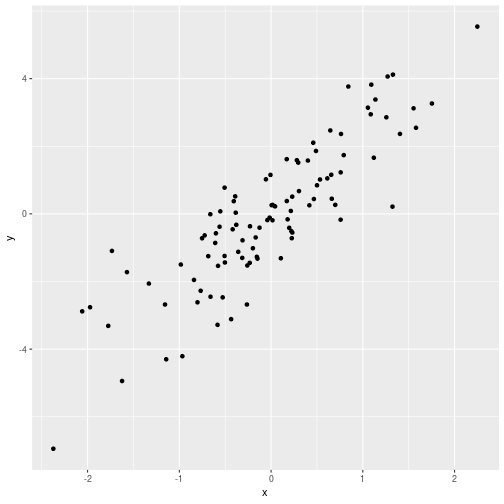
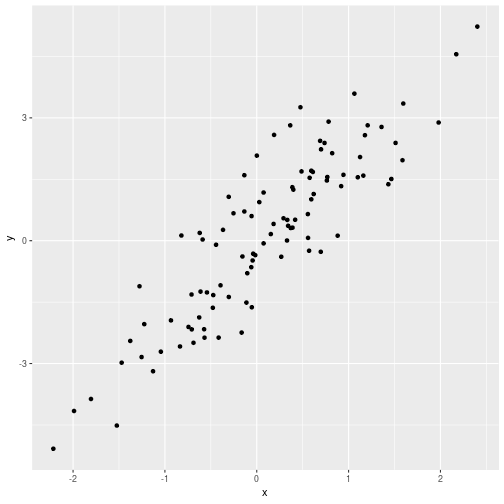
README Changes, C3 Applied Section 11

diff --git a/Chapter_3/applied.md b/Chapter_3/applied.md
@@ -247,14 +247,14 @@ lm(mpg ~ weight*year + cylinders*displacement, auto) %>% tidy()
 All of the values appear to be reasonably statistically significant. In fact, if we have a look at the fitted vs residuals, it looks much better than before:
 
 ```r
-lm(mpg ~ weight*year + cylinders*displacement, auto) %>% augment() %>% ggplot(aes(.fitted, .resid)) + geom_point() + geom_smooth()A
+lm(mpg ~ weight*year + cylinders*displacement, auto) %>% augment() %>% ggplot(aes(.fitted, .resid)) + geom_point() + geom_smooth()
 ```
 
 ```
-## Error: <text>:1:131: unexpected symbol
-## 1: lm(mpg ~ weight*year + cylinders*displacement, auto) %>% augment() %>% ggplot(aes(.fitted, .resid)) + geom_point() + geom_smooth()A
-##                                                                                                                                       ^
+## `geom_smooth()` using method = 'loess' and formula 'y ~ x'
 ```
+
+![plot of chunk applied_auto_interaction_fitted](figure/applied_auto_interaction_fitted-1.png)
 
 ### f)
 *Try different transformations of the variables and comment ont the findings.*
@@ -424,6 +424,7 @@ There doesn't appear to be any non-linearity in the daata, and the high leverage
 
 
 ```r
+set.seed(1)
 linear_response <- tibble(x = rnorm(100), y = 2 * x + rnorm(100))
 linear_response %>% ggplot(aes(x,y)) + geom_point()
 ```
@@ -435,20 +436,15 @@ linear_response %>% ggplot(aes(x,y)) + geom_point()
 
 
 ```r
-set.seed(1)
-lr_reg <- lm(y ~ x + 0)
-```
-
-```
-## Error in eval(predvars, data, env): object 'y' not found
-```
-
-```r
+lr_reg <- lm(y ~ x + 0, linear_response)
 lr_reg %>% tidy()
 ```
 
 ```
-## Error in eval(lhs, parent, parent): object 'lr_reg' not found
+## # A tibble: 1 x 5
+##   term  estimate std.error statistic  p.value
+##   <chr>    <dbl>     <dbl>     <dbl>    <dbl>
+## 1 x         1.99     0.106      18.7 2.64e-34
 ```
 
 The coefficient estimate is 1.99 - very close to the 2 that we used to generate the points. The standard error is .106, the t-statistic is 18.7 and the p-value is 2.64e-34. The t-statistic tells us how many standard deviations the coefficient is away from 0. The p-value gives us the probability that the null hypothesis - that the coefficient is 0 - is true.
@@ -458,19 +454,15 @@ The coefficient estimate is 1.99 - very close to the 2 that we used to generate 
 
 
 ```r
-lr_reg_reverse <- lm(x ~ y + 0)
-```
-
-```
-## Error in eval(predvars, data, env): object 'x' not found
-```
-
-```r
+lr_reg_reverse <- lm(x ~ y + 0, linear_response)
 lr_reg_reverse %>% tidy()
 ```
 
 ```
-## Error in eval(lhs, parent, parent): object 'lr_reg_reverse' not found
+## # A tibble: 1 x 5
+##   term  estimate std.error statistic  p.value
+##   <chr>    <dbl>     <dbl>     <dbl>    <dbl>
+## 1 y        0.391    0.0209      18.7 2.64e-34
 ```
 
 The coefficient estimate and the standard error have changed, which is as expected. The t-statistic and p-value remain the same.
@@ -480,7 +472,62 @@ The coefficient estimate and the standard error have changed, which is as expect
 
 It's the same line, thus the overall results obtained are the same.
 
-### d)
-For the regression of Y onto X without an intercept, the t-
-statistic for H 0 : β = 0 takes the form β̂/SE( β̂).
+## 12) Simple Linear Regression
+
+### a) 
+*Recall that the coefficient estimate β̂ for the linear regression of Y onto X without an intercept is given by (3.38). Under what circumstance is the coefficient estimate for the regression of X onto Y the same as the coefficient estimate for the regression of Y onto X?*
+
+When the sum of the squares of the y observations is the same as the sum or the squares of the x observations.
+
+### b)
+Generate an example in R with n = 100 observations in which the coefficient estimate for the regression of X onto Y is different from the coefficient estimate for the regression of Y onto X.
+
+
+```r
+set.seed(1)
+tibble(x = rnorm(100), y = 4*x) %>% lm(y ~ x, .) %>% tidy()
+set.seed(1)
+tibble(x = rnorm(100), y = 4*x) %>% mutate(y = sample(
+```
+
+```
+## Error: <text>:5:0: unexpected end of input
+## 3: set.seed(1)
+## 4: tibble(x = rnorm(100), y = 4*x) %>% mutate(y = sample(
+##   ^
+```
+
+### c)
+*Generate an example in R with n = 100 observations in which the coefficient estimate for the regression of X onto Y is the Asame as the coefficient estimate for the regression of Y onto X.*
+
+To have the same coefficients, we need the sum of the squares to be the same. To do this, we generate 100 random values for `X`, and we use the same values for `Y`. However we re-order the values so we don't simply get a `y = x` function. We can use the `sample_n()` function for this:
+
+
+```r
+set.seed(1)
+sample_data <- tibble(x = rnorm(100)) %>% 
+    mutate(y = (sample_n(., 100) %>% .[['x']]))
+lm(y ~ x, sample_data) %>% tidy()
+```
+
+```
+## # A tibble: 2 x 5
+##   term        estimate std.error statistic p.value
+##   <chr>          <dbl>     <dbl>     <dbl>   <dbl>
+## 1 (Intercept)  0.108      0.0909    1.19     0.237
+## 2 x            0.00695    0.101     0.0688   0.945
+```
+
+```r
+lm(x ~ y, sample_data) %>% tidy()
+```
+
+```
+## # A tibble: 2 x 5
+##   term        estimate std.error statistic p.value
+##   <chr>          <dbl>     <dbl>     <dbl>   <dbl>
+## 1 (Intercept)  0.108      0.0909    1.19     0.237
+## 2 y            0.00695    0.101     0.0688   0.945
+```
+
 

diff --git a/Chapter_2/notes.md b/Chapter_2/notes.md
@@ -1,0 +1,18 @@
+# Chapter 2 - Notes
+
+## 2.1 - Statistical Learning 
+
+**Statistical Learning** - a set of approaches for estimating a function f(X) from a set of data.
+
+Why estimate `f`? Either for prediction or inference.
+
+### Prediction
+The set of inputs `X` are readily available, but the output `Y` cannot easily be obtained. We wish to predict what `Y` will be given a set of inputs `X`.
+
+The accuracy of the prediction depends on two quantities - the *reducible* and the *irreducible* error. The estimate `f_hat(x)` will not be a perfect estimate for the true `f(x)`. We can reduce the error by using better statistical learning techniques.
+
+However the variability of `e` also affects the accuracy of the predictions. This is the irreducible error.
+
+### Inference
+
+We are often interested in the way that `Y` is affected by changes in `X`. We need to estimate `f(x)`, but we don't want to predict `Y`. We instead want to understand the relationship betrween `X` and `Y`.

diff --git a/README.md b/README.md
@@ -1,15 +1,19 @@
 # Introduction to Statistical Learning
 
-## Conceptual Questions
+## Chapter 2
 
-* [Chapter 2](Chapter_2/conceptual.md)
-* [Chapter 3](Chapter_3/conceptual.md)
+* [Key Terms](Chapter_2/terms.md)
 
-## Applied Questions
+### Exercises 
 
-* [Chapter 2](Chapter_2/applied.md)
-* [Chapter 3](Chapter_3/applied.md)
+* [Conceptual](Chapter_2/conceptual.md)
+* [Applied](Chapter_2/applied.md)
 
-## Labs
+## Chapter 3
 
-* [Chapter 3](Chapter_3/lab.md)
+### Exercises
+* [Lab](Chapter_3/lab.md)
+* [Conceptual](Chapter_3/conceptual.md)
+* [Applied](Chapter_3/applied.md)
+
+

diff --git a/Chapter_2/terms.md b/Chapter_2/terms.md
@@ -1,0 +1,1 @@
+# Key Def
